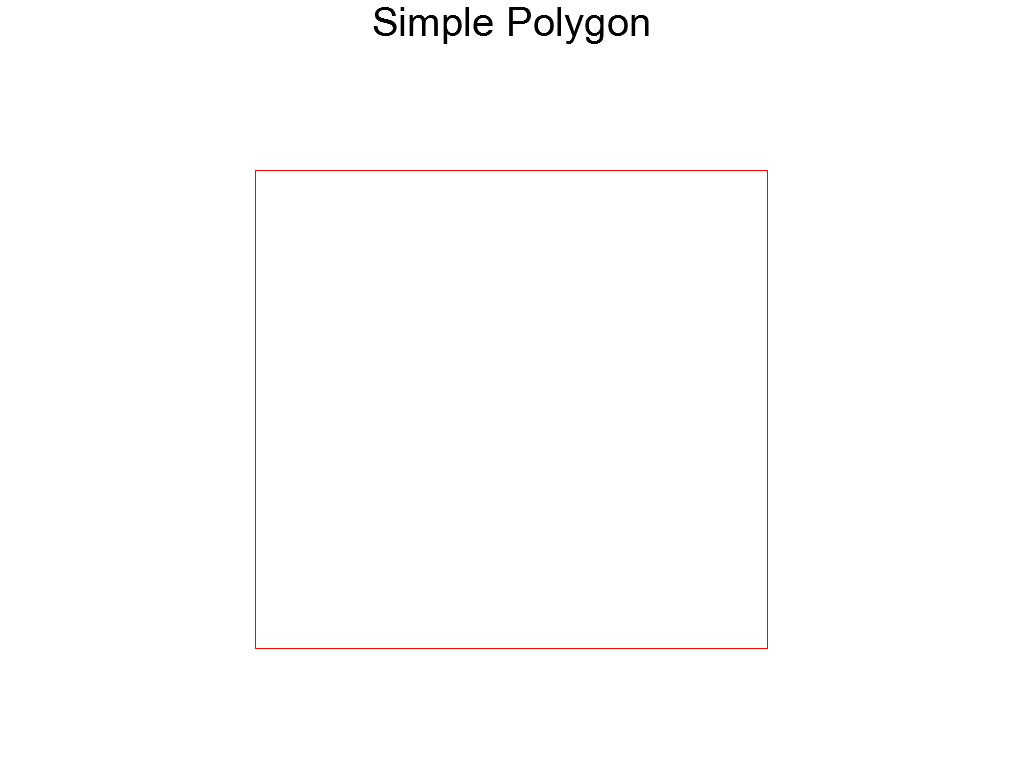
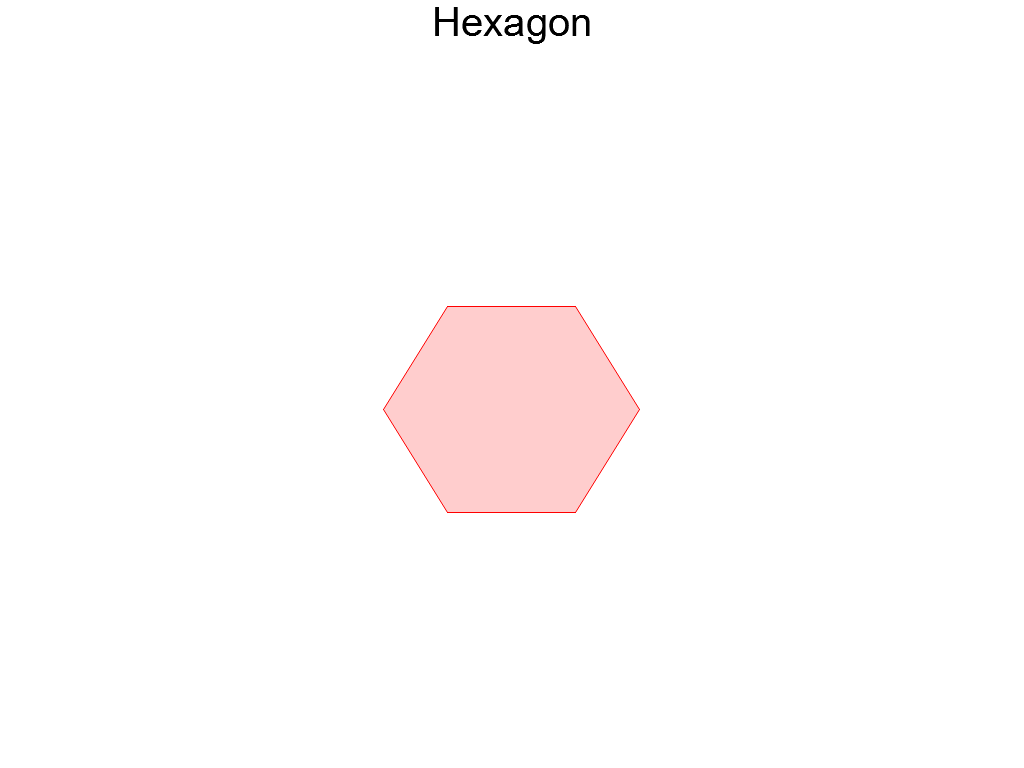
regular polygon generation + readme update

Changed region(s): [[0.375, 0.375, 0.625, 0.6875], [0.3438, 0.0, 0.625, 0.0625]]

diff --git a/src/vector.rs b/src/vector.rs
@@ -13,6 +13,8 @@ use core::simd::prelude::*;
 
 pub trait Vector {
 
+    type Element;
+
 }
 
 pub trait Vec2 : Vector {
@@ -23,7 +25,7 @@ pub trait Vec3 : Vector {
 
 }
 
-
+#[derive(Clone, Copy)]
 pub struct Vec2i {
 
     data : i32x2
@@ -78,6 +80,8 @@ impl MulAssign for Vec2i {
     }
 }
 
+
+
 impl fmt::Display for Vec2i {
 
     fn fmt(&self, f: &mut fmt::Formatter<'_>) -> fmt::Result {
@@ -95,11 +99,14 @@ impl Vec2i {
     pub fn y(&self) -> i32 { return self.data.as_array()[1]; }
 }
 
-impl Vector for Vec2i {}
+impl Vector for Vec2i {
+     type Element = i32;
+}
 impl Vec2 for Vec2i {}
 
 
 
+#[derive(Clone, Copy)]
 pub struct Vec2l {
 
     data: i64x2
@@ -172,11 +179,14 @@ impl Vec2l {
     pub fn y(&self) -> i64 { return self.data.as_array()[1]; }
 }
 
-impl Vector for Vec2l {}
+impl Vector for Vec2l {
+     type Element = i64;
+}
 impl Vec2 for Vec2l {}
 
 
 
+#[derive(Clone, Copy)]
 pub struct Vec2f {
 
     data: f32x2
@@ -250,11 +260,13 @@ impl Vec2f {
     pub fn y(&self) -> f32 { return self.data.as_array()[1]; }
 }
 
-impl Vector for Vec2f {}
+impl Vector for Vec2f {
+     type Element = f32;
+}
 impl Vec2 for Vec2f {}
 
 
-
+#[derive(Clone, Copy)]
 pub struct Vec2d {
 
     data: f64x2
@@ -326,10 +338,14 @@ impl Vec2d {
     pub fn y(&self) -> f64 { return self.data.as_array()[1]; }
 }
 
-impl Vector for Vec2d {}
+impl Vector for Vec2d {
+     type Element = f64;
+}
 impl Vec2 for Vec2d {}
 
 
+
+#[derive(Clone, Copy)]
 pub struct Vec3i {
 
     data: i32x4
@@ -403,12 +419,14 @@ impl Vec3i {
     pub fn z(&self) -> i32 { return self.data.as_array()[2]; }
 }
 
-impl Vector for Vec3i {}
+impl Vector for Vec3i {
+     type Element = i32;
+}
 impl Vec3 for Vec3i {}
 
 
 
-
+#[derive(Clone, Copy)]
 pub struct Vec3l {
 
     data: i64x4
@@ -483,11 +501,15 @@ impl Vec3l {
     pub fn z(&self) -> i64 { return self.data.as_array()[2]; }
 }
 
-impl Vector for Vec3l {}
+impl Vector for Vec3l {
+     type Element = i64;
+}
 impl Vec3 for Vec3l {}
 
 
 
+
+#[derive(Clone, Copy)]
 pub struct Vec3f {
 
     data: f32x4
@@ -561,11 +583,14 @@ impl Vec3f {
     pub fn z(&self) -> f32 { return self.data.as_array()[2]; }
 }
 
-impl Vector for Vec3f {}
+impl Vector for Vec3f {
+     type Element = f32;
+}
 impl Vec3 for Vec3f {}
 
 
 
+#[derive(Clone, Copy)]
 pub struct Vec3d {
 
     data: f64x4
@@ -640,10 +665,10 @@ impl Vec3d {
 }
 
 
-impl Vector for Vec3d {}
+impl Vector for Vec3d {
+     type Element = f64;
+}
 impl Vec3 for Vec3d {}
-
-
 
 
 //TODO: Vector4

diff --git a/examples/plotters/ex_polygon.rs b/examples/plotters/ex_polygon.rs
@@ -1,6 +1,6 @@
 
 use cg_rust::vector::Vec2d;
-use cg_rust::polygon::Polygon;
+use cg_rust::polygon::{Polygon, PolygonFloat};
 use plotters::prelude::*;
 
 const OUT_FILE_NAME: &str = "examples/plotters/plot-data/polygon.png";
@@ -12,24 +12,21 @@ fn main() -> Result<(), Box<dyn std::error::Error>> {
     let _ = root.fill(&WHITE);
 
     let mut chart = ChartBuilder::on(&root)
-        .caption("Simple Polygon", ("sans-serif", 50))
+        .caption("Hexagon", ("sans-serif", 50))
         .build_cartesian_2d(-2.0..2.0, -1.5..1.5)?;
 
-    let mut polygon= Polygon::<Vec2d>::new();
-    
-    polygon.push(Vec2d::new(-1.0_f64, -1.0_f64));
-    polygon.push(Vec2d::new(1.0_f64, -1.0_f64));
-    polygon.push(Vec2d::new(1.0_f64, 1.0_f64));
-    polygon.push(Vec2d::new(-1.0_f64, 1.0_f64));
+    let polygon= Polygon::<Vec2d>::regular(Vec2d::new(0.0, 0.0), 1.0, 6);
 
     let poly_vertices = polygon.get_points();
     let mut vertices: Vec<(f64, f64)> = Vec::<(f64, f64)>::new();
     for poly_vertex in poly_vertices {
         vertices.push((poly_vertex.x(), poly_vertex.y()));
     }
-    vertices.push((poly_vertices[0].x(), poly_vertices[0].y()));
 
+    chart.draw_series(std::iter::once(plotters::element::Polygon::new(vertices.clone(), RED.mix(0.2))))?;
+    vertices.push((poly_vertices[0].x(), poly_vertices[0].y()));
     chart.draw_series(std::iter::once(PathElement::new(vertices, RED)))?;
+
 
     root.present().expect("[cg-rust]: Unable to write result to file, please make sure 'plot-data' dir exists under current directory!");
     println!("Result has been saved to {}", OUT_FILE_NAME);

diff --git a/src/polygon.rs b/src/polygon.rs
@@ -1,5 +1,15 @@
 
+
+use core::f64;
+
 use crate::vector::Vec2;
+use crate::vector::Vec2d;
+
+pub trait PolygonFloat<T : Vec2, ElementType> {
+    fn regular(center : T, radius : ElementType, corners : i32) -> Polygon<T>;
+}
+
+
 
 pub struct Polygon<T: Vec2> {
 
@@ -21,4 +31,31 @@ impl<T: Vec2> Polygon<T> {
         self.points.push(point);
     }
 
+}
+
+impl<> PolygonFloat<Vec2d, f64> for Polygon<Vec2d> {
+
+    fn regular(center : Vec2d, radius : f64, corners : i32) -> Polygon<Vec2d> {
+        
+        let angle_per_corner = f64::consts::TAU / (corners as f64);
+
+        let mut poly = Polygon::<Vec2d>::new();
+
+        let mut current_angle = 0_f64;
+        for _ in 0..corners {
+
+            let x_y = current_angle.sin_cos();
+            let x = x_y.1 * 0.5_f64 * radius;
+            let y = x_y.0 * 0.5_f64 * radius;
+
+            let mut p = Vec2d::new(x, y);
+            p += center;
+
+            poly.push(p);
+
+            current_angle += angle_per_corner;
+        }
+
+        return poly;
+    }
 }

diff --git a/src/lib.rs b/src/lib.rs
@@ -1,5 +1,6 @@
 
 #![feature(portable_simd)]
 
+pub mod traits;
 pub mod vector;
 pub mod polygon;

diff --git a/src/traits.rs b/src/traits.rs
@@ -1,0 +1,5 @@
+
+pub trait Float {}
+
+impl Float for f32 {}
+impl Float for f64 {}

diff --git a/readme.md b/readme.md
@@ -2,6 +2,8 @@
 ## Table of contents
 - [Introduction](#introduction)
 - [Overview](#overview)
+- [Dependencies](#dependencies)
+- [Examples](#examples)
 
 ## <a id="introduction"></a>Introduction
 
@@ -14,4 +16,24 @@ to keep myself motivated ^^
 
 ## <a id="overview"></a>Overview
 
-Right now, only a very basic SIMD Vector class is included.
+Right now, only a very basic SIMD Vector classes and rudimentary Polygons are included.
+
+## <a id="dependencies"></a>Dependencies
+
+To build the crate, nightly rust is necessary for using the following modules:
+
+> [SIMD](https://doc.rust-lang.org/std/simd/index.html)
+
+There are also dependencies for running the examples provided:
+
+> [Plotters](https://github.com/plotters-rs/plotters)
+
+## <a id="examples"></a>Examples
+
+![Plotter Polygon Example](https://github.com/blenderfan/cg-rust/blob/master/examples/plotters/plot-data/polygon.png)
+
+To run the examples in the crate that use plotters, use:
+
+`cargo run --example plotter_[example_name]`
+
+E.g. `cargo run --example plotter_polygon`
